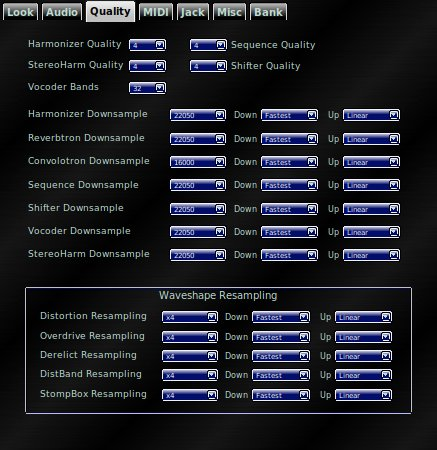
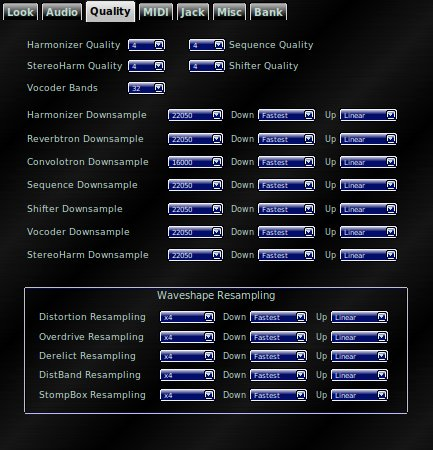
Fix typo and label changes. Change some labels in audio preferences. Add tooltip. Minor alignment of settings labels.

diff --git a/doc/help/general.html b/doc/help/general.html
@@ -396,7 +396,7 @@ set in <a href="#bprefs">Bank preferences</a>.</p>
 
 <p><img src="imagenes/bank_mgmt.jpg" alt="rakarrack Bank Window" align="bottom" border="1" height="500" width="640"></p>
 
-<p>At the top of the Bank windows, the tittle bar shows the loaded bank.
+<p>At the top of the Bank windows, the title bar shows the loaded bank.
 Click on the individual preset buttons or use the preset counter in the Preset
 section to change the preset. The hot keys '+' and '-' can also be used to cycle
 through the presets.</p>
@@ -504,10 +504,11 @@ may prove to be a useful tool.</p>
 <p><b>+6dB Final Limiter</b></p>
 <p>This option add 6 dB to the final chain Limiter output signal.</p>
 
-<p><b>Upsampling</b></p>
-<p>Enable upsampling using libsamplerate.  With this enabled, Rakarrack will
+<p><b>Master Upsampling</b></p>
+<p>Enable upsampling using libsamplerate. This is the master upsampling that
+will affect all sound processing. With this enabled, Rakarrack will
 process the effects with a higher sample rate than received from the
-sound card.  All the resample parameters will take effect the next time you
+sound card.  The master upsample parameters will take effect the next time you
 launch rakarrack. Enabling upsampling in Rakarrack will use a lot more computer
 CPU resources, and will result in very professional sounding effects.
 Take care to adjust all the upsampling settings in small

diff --git a/src/UI/settingswindow_gui.h b/src/UI/settingswindow_gui.h
@@ -1,4 +1,4 @@
-// generated by Fast Light User Interface Designer (fluid) version 1.0305
+// generated by Fast Light User Interface Designer (fluid) version 1.0304
 
 #ifndef settingswindow_gui_h
 #define settingswindow_gui_h
